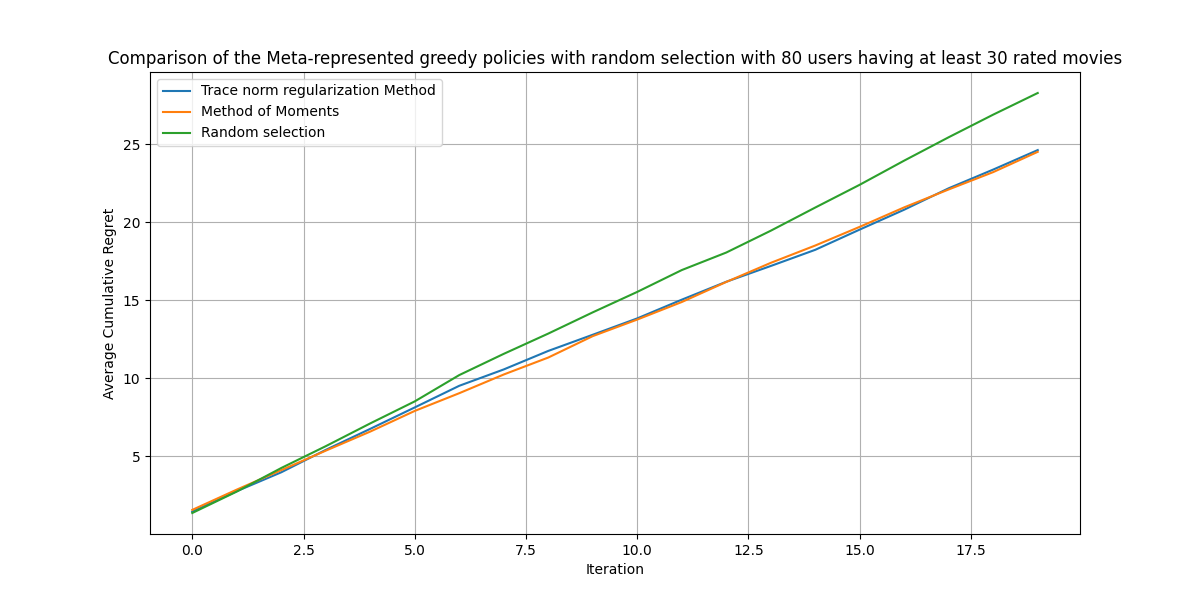
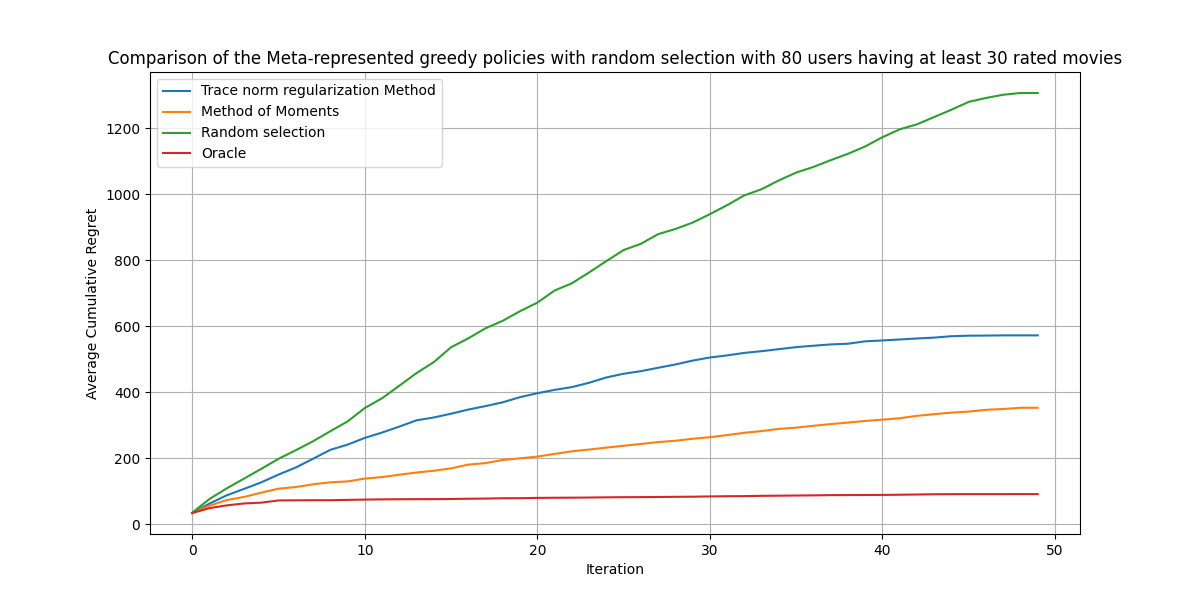
donnees synthetiques

diff --git a/src/karim_benzema.py b/src/karim_benzema.py
@@ -1,0 +1,56 @@
+import numpy as np
+from method_of_moments import estimate_B_using_mom
+from trace_norm_regularization import optimize_under_trace_norm_regularization, extract_left_singular_vectors
+import pickle as pkl
+
+# Fixer la graine pour la reproductibilité
+np.random.seed(0)
+
+# Paramètres
+T = 100  # Nombre de colonnes de W
+d = 60   # Nombre de lignes de W
+r = 5    # Rang de W
+N = 100  # Nombre d'échantillons
+
+# Générer W de dimension (d, T) de rang r
+# En créant une matrice aléatoire de rang r via multiplication de deux matrices
+W_left = np.random.randn(d, r)
+W_right = np.random.randn(r, T)
+W = np.dot(W_left, W_right)
+
+# Décomposer W avec SVD pour obtenir les r premiers vecteurs singuliers de gauche
+U, S, Vt = np.linalg.svd(W, full_matrices=False)
+B = U[:, :r]  # B de dimension (d, r) avec les r premiers vecteurs singuliers de gauche
+
+# Générer les données gaussiennes x_t_n de dimension (T, N, d)
+X = np.random.randn(T, N, d)  # T x N échantillons gaussiens de dimension d
+
+# Générer y_t_n = W_t . X + eta_t_n
+Y = np.zeros((T, N))  # Initialisation de Y de dimension (T, N)
+for t in range(T):
+    W_t = W[:, t]  # La t-ème colonne de W
+    eta = np.random.randn(N)  # Bruit gaussien centré réduit
+    # Calcul de Y pour chaque échantillon n à temps t
+    Y[t] = X[t] @ W_t + eta
+
+B_mom = estimate_B_using_mom(X, Y, r)
+A0 = np.random.rand(X.shape[2], X.shape[0])
+A = optimize_under_trace_norm_regularization(A0, X, Y, λ=0.01, n_iter=100)
+B_trace_norm = extract_left_singular_vectors(A, threshold=0.001)
+
+T_test, N_test = 10, 50
+X_test = np.random.randn(T_test, N_test, d)
+Y_test = np.zeros((T_test, N_test))
+for t in range(T_test):
+    alpha_test = np.random.multivariate_normal(mean=np.zeros(r), cov=(1/r) * np.eye(r))
+    W_t_test = B @ alpha_test
+    eta = np.random.randn(N_test)
+    Y_test[t] = X_test[t] @ W_t + eta
+
+np.save("./data/B_oracle.npy", B)
+np.save("./data/B_mom_synthetique.npy", B_mom)
+np.save("./data/B_trace_norm_synthetique.npy", B_trace_norm)
+with open('./data/Y_test_synthetique.pkl', 'wb') as f:
+    pkl.dump(Y_test, f)
+with open('./data/X_test_synthetique.pkl', 'wb') as f:
+    pkl.dump(X_test, f)

diff --git a/src/Regret_comparaison.py b/src/Regret_comparaison.py
@@ -7,22 +7,25 @@ from regret import calculate_average_regret
 
 np.random.seed(42)
 
-with open("../data/X_test_80test.pkl", "rb") as f:
+with open("./data/X_test_synthetique.pkl", "rb") as f:
     X_test = pickle.load(f)
 
-with open("../data/Y_test_80test.pkl", "rb") as f:
+with open("./data/Y_test_synthetique.pkl", "rb") as f:
     Y_test = pickle.load(f)
 
-B_trace = np.load("../data/B_ml_80test.npy")
-B_mom = np.load("../data/B_ml_mom_80test.npy")
+B_trace = np.load("./data/B_trace_norm_synthetique.npy")
+B_mom = np.load("./data/B_mom_synthetique.npy")
+B_oracle = np.load("./data/B_oracle.npy")
 
-total_iterations = 30
+total_iterations = 50
 
 # Algorithm : Meta-Represented Greedy Policy
+cumulative_regrets_oracle = np.cumsum(
+    calculate_average_regret(X_test, Y_test, B_oracle, total_iterations)
+)
 cumulative_regrets_trace = np.cumsum(
     calculate_average_regret(X_test, Y_test, B_trace, total_iterations)
 )
-
 # Algorithm : Method of Moments
 cumulative_regrets_mom = np.cumsum(
     calculate_average_regret(X_test, Y_test, B_mom, total_iterations)
@@ -53,6 +56,7 @@ plt.plot(
 )
 plt.plot(cumulative_regrets_mom, label="Method of Moments")
 plt.plot(cumulative_regrets_random, label="Random selection")
+plt.plot(cumulative_regrets_oracle, label="Oracle")
 plt.xlabel("Iteration")
 plt.ylabel("Average Cumulative Regret")
 plt.title(
@@ -61,6 +65,6 @@ plt.title(
 plt.legend()
 plt.grid(True)
 plt.savefig(
-    "../results/Average Cumulative Regret of 5 test users with 80 users having at least 30 rated movies.png"
+    "./results/Average Cumulative Regret of 5 test users with 80 users having at least 30 rated movies.png"
 )
 plt.show()

diff --git a/src/trace_norm_regularization.py b/src/trace_norm_regularization.py
@@ -167,8 +167,8 @@ def extract_left_singular_vectors(A, threshold=0.001):
     return B
 
 
-X = np.load("../data/X_ml_80test.npy")
-Y = np.load("../data/Y_ml_80test.npy")
+X = np.load("./data/X_ml_80test.npy")
+Y = np.load("./data/Y_ml_80test.npy")
 A0 = np.random.rand(X.shape[2], X.shape[0])
 λ = 0.005
 n_iter = 100
@@ -203,4 +203,4 @@ A = optimize_under_trace_norm_regularization(A0, X, Y, λ, n_iter)
 
 B = extract_left_singular_vectors(A, threshold=0.001)
 
-np.save("../data/B_ml_80test.npy", B)
+np.save("./data/B_ml_80test.npy", B)

diff --git a/src/regret.py b/src/regret.py
@@ -46,7 +46,7 @@ def calculate_average_regret(X_test, Y_test, B, total_iterations):
             BTX_iTY_i = B.T @ X_i.T @ Y_i
 
             reg = 1e-6 * np.eye(BTX_iTX_iB.shape[0])
-            alpha_i = np.linalg.inv(BTX_iTX_iB + reg) @ BTX_iTY_i
+            alpha_i = np.linalg.inv(BTX_iTX_iB.astype(float) + reg) @ BTX_iTY_i
 
             arm = max(arms, key=lambda a: np.dot(B @ alpha_i, X_test_array[a]))
             best_reward = np.max([Y_test_array[a] for a in arms])

diff --git a/src/method_of_moments.py b/src/method_of_moments.py
@@ -38,12 +38,12 @@ def estimate_B_using_mom(X, Y, r):
     return B
 
 
-X = np.load("../data/X_ml_80test.npy")
-Y = np.load("../data/Y_ml_80test.npy")
+X = np.load("./data/X_ml_80test.npy")
+Y = np.load("./data/Y_ml_80test.npy")
 
 
 B = estimate_B_using_mom(X, Y, 2)
-np.save("../data/B_ml_mom_80test.npy", B)
+np.save("./data/B_ml_mom_80test.npy", B)
 
 """
 T = X.shape[0]
